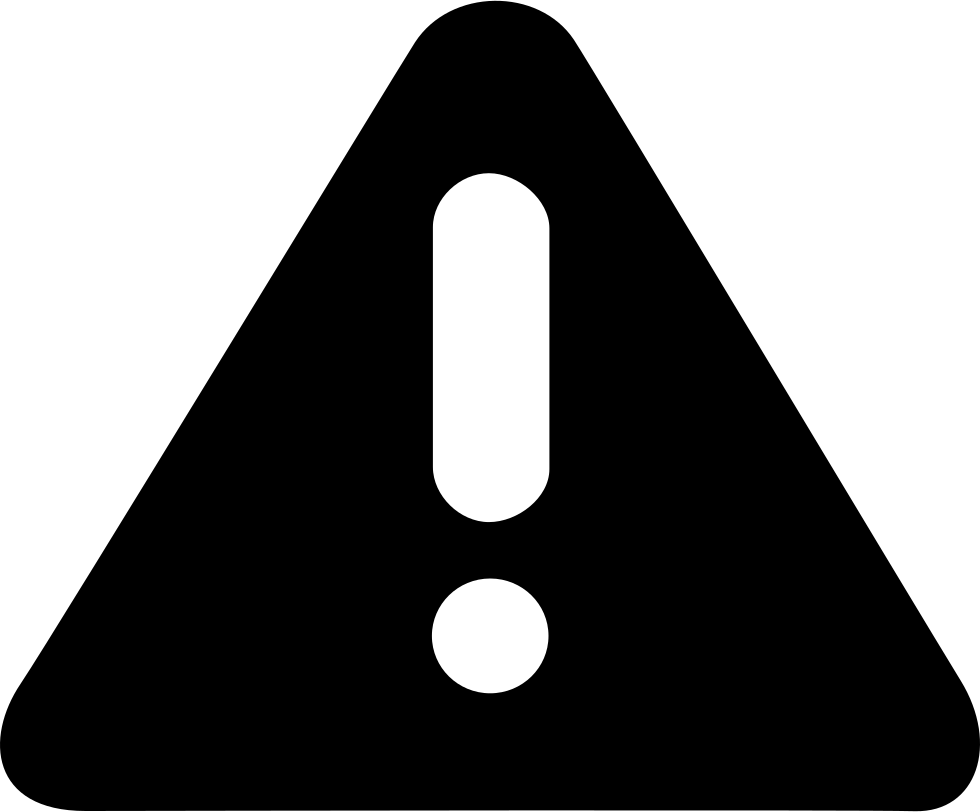
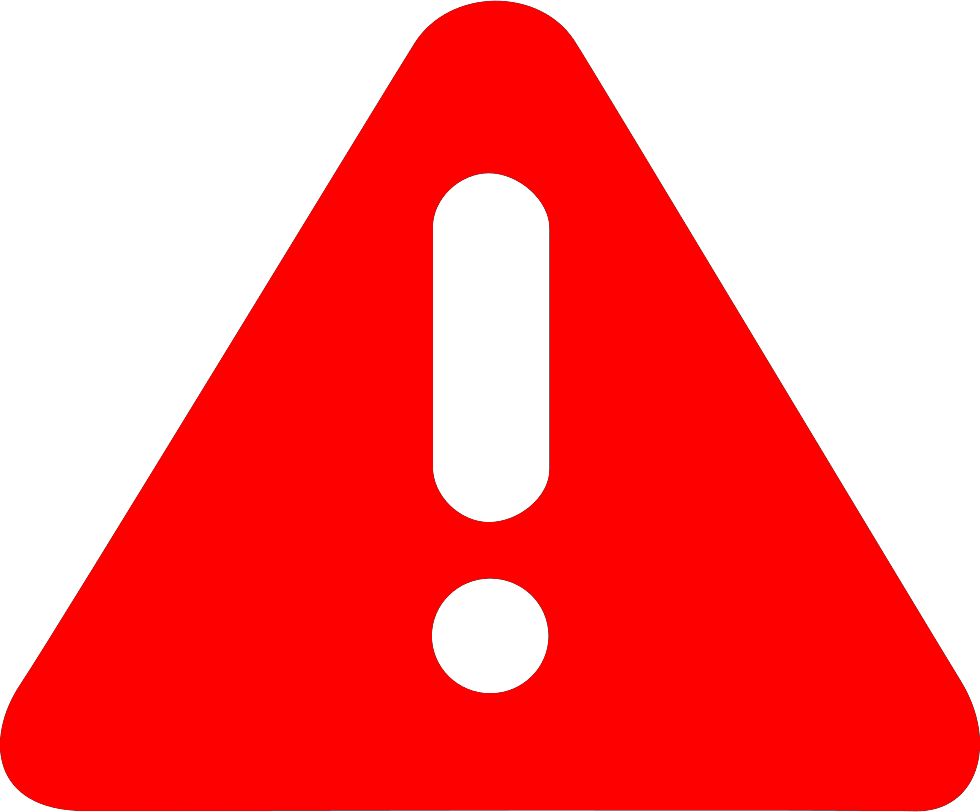
error page change

diff --git a/flaskr/templates/error.html b/flaskr/templates/error.html
@@ -6,7 +6,7 @@
     <meta name="viewport" content="width=device-width, initial-scale=1.0">
 
     <title>FYP: Modeling</title>
-    <link rel="shortcut icon" href="{{ url_for('static', filename='images/favicon.png') }}">
+    <link rel="shortcut icon" href="{{ url_for('static', filename='images/favicon_error.png') }}">
     <!--bootstrap-->
     <link rel="stylesheet" href="{{ url_for('static', filename='bootstrap/css/bootstrap.min.css') }}">
 
@@ -33,25 +33,28 @@
 <!-- Dropdown Structure -->
 {% include 'horizontal_nav_bar.html' %}
 
-<div id="mainDataInterface-id" class="container mainDataInterface">
+<div id="mainDataInterface-id" style="margin-bottom: 80px;" class="container mainDataInterface">
 
     <div class="step-content">
         <div class="row head-word">
-            <h3 id="h3-head-1" class="card__title" style="text-align: center;">Error: {{ errors[0] }}</h3>
+            <h3 id="h3-head-1" class="card__title" style="text-align: center;color: red;margin-top: 25px;">Error: {{ errors[0] }}</h3>
         </div>
 
         <br>
     
         <div class="row">
-            <div class="col-sm-6">
+            <div class="col-sm-12 center">
+                <img src="{{ url_for('static', filename='images/error/not_found.png') }}" alt="error">
+            </div>            
+        </div>
+
+        <div class="row">
+            <div class="col-sm-12" style="text-align: center;">
                 {% for error in errors[1] %}
                     <li>{{ error }}</li>
                 {% endfor %}
             </div>
 
-            <div class="col-sm-6 center">
-                <img src="{{ url_for('static', filename='images/error/not_found.png') }}" alt="error">
-            </div>
         </div>
 
     </div>
